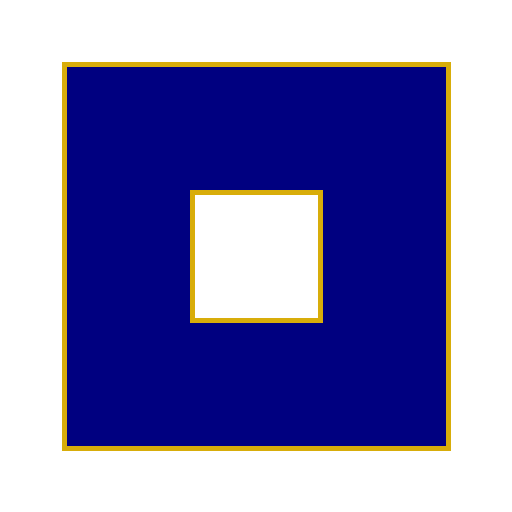
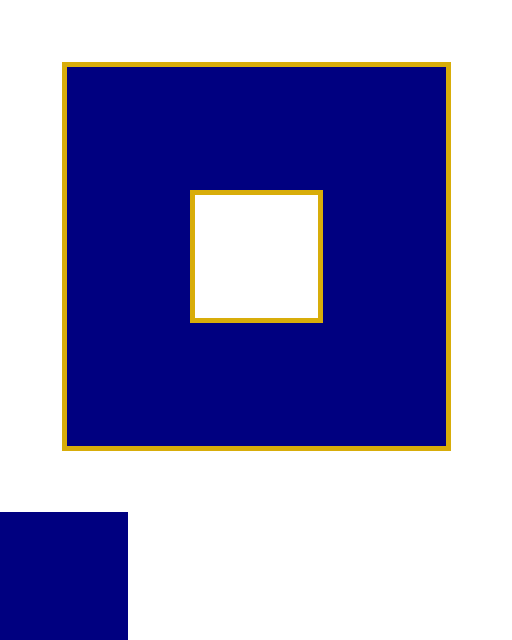
switched to user frendly block tiles

diff --git a/public/index.js b/public/index.js
@@ -25,10 +25,30 @@ var anim = {
     "Rifle": {}
 }
 let tilemap;
-let map = { map: [], w: 5, h: 5 };
+let map = "";
 
-function getTile(i) {
-    if (i != -1 && i < 16) {
+function getPlayerFrame(weapon, stance){
+    let animFrames1 = (animFrames + animDelay) % anim[weapon][stance].length;
+    let img = anim[weapon][stance][animFrames1];
+    img.resize(200,200);
+    return img;
+}
+
+function getTile(iBlock) {
+    /* 
+    ▉
+    ▖ ▘ ▗  ▝
+    ▙ ▛ ▜ ▟
+    ▌ ▐ ▁ ▔
+    */
+
+    let i;
+    switch(iBlock){
+        case "▉":
+            i = 17;
+    }
+
+     if (i != -1 && i < 17) {
         return tilemap.get((i * 128) % 512, 128 * Math.floor((i) / 4), 128, 128);
     } else {
         return createImage(128, 128);
@@ -92,13 +112,19 @@ function setup() {
         players[data.id] = { x: data.x, y: data.y, id: data.id, weapon: data.weapon, stance: data.stance, tick: getTime() };
     });
 
-    // setup tiles
-    for (let i = 0; i < map.h; i++) {
-        for (let j = 0; j < map.w; j++) {
-            map.map.push((i * map.w + j)%16);
-        }
-    }
-    map.map=[0, 1, 2, 2, 3, 4, 6, 7, 8, 7, 4, 11, 12, 13, 7, 4, 0, 1, 2, 7, 12, 14, 14, 14, 15];
+    /*
+    ▉
+    ▖ ▘ ▗  ▝
+    ▙ ▛ ▜ ▟
+    ▌ ▐ ▁ ▔
+    */
+
+    map.map=`
+▗▁▁▁▁▖
+▐▛▔▔▜▌
+▐▌  ▐▌
+▐▙▁▁▟▌
+▝▔▔▔▔▘`;
 }
 
 function disconnect(data) {
@@ -112,18 +138,19 @@ function draw() {
     scale(ratio);
     background(200);
     animFrames++;
-    let animFrames1 = (animFrames + animDelay) % anim[me.weapon][me.stance].length;
-    image(anim[me.weapon][me.stance][animFrames1], me.x, me.y);
+    image(getPlayerFrame(me.weapon, me.stance), me.x, me.y);
 
     fill(255);
     rect(me.x, me.y, 50, 50);
     push();
     imageMode(CORNER);
-    for (let i = 0; i < map.h; i++) {
-        for (let j = 0; j < map.w; j++) {
-            image(getTile(map.map[i * map.w + j]), j * 130+20, i * 130+20);
-            text(i * map.w + j, j * 130+20+64, i * 130+20+64)
-        }
+    let old = 1;
+    let j = 0;
+    for (let i = 0; i < map.length; i++) {
+        if (map[i] == "\n"){ j++; old = i; continue }
+        let i2 = (old-1)
+        image(getTile(map[i+j]), j * 130+20, i2 * 130+20);
+        text(i-j, j * 130+20+64, i2 * 130+20+64);
     }
     pop();
     text("You", me.x, me.y);
@@ -135,8 +162,7 @@ function draw() {
             delete players[Object.keys(players)[i]];
         }
         // draw player
-        let animFrames1 = (animFrames + animDelay) % anim[player.weapon][player.stance].length;
-        image(anim[player.weapon][player.stance][animFrames1], player.x, player.y);
+        image(getPlayerFrame(player.weapon, player.stance), player.x, player.y);
         rect(player.x, player.y, 50, 50);
         text(player.id, player.x, player.y);
     }
